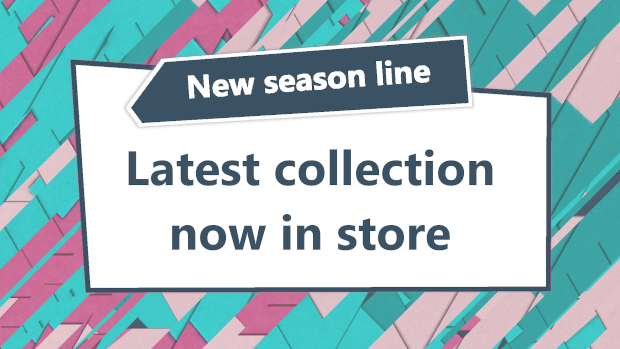
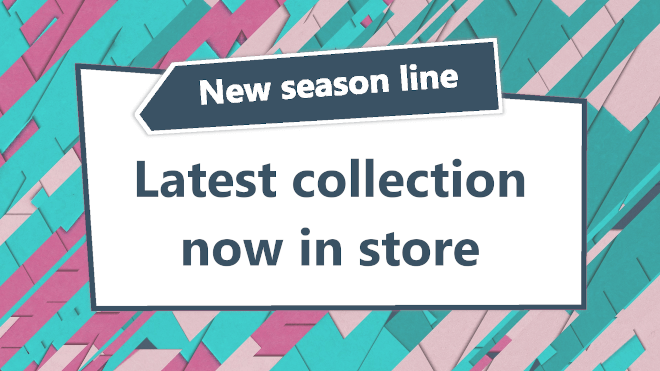
videowall img optimization

diff --git a/led-video-walls.html b/led-video-walls.html
@@ -96,7 +96,7 @@
             <p>Deliver rich, crystal clear content with true stopping power</p>
             <div class="vid-banner-container">
                     <div class="vid-banner">
-                        <img src="images/videowall-hero.png" alt="LED video wall showing juice bar menu">
+                        <img src="images/videowall-hero-optimized.png" alt="LED video wall showing juice bar menu">
                     </div>
                 </div>
             <hr>
@@ -163,7 +163,7 @@
     <div id="topSection">
     <div class="container signage-explainer">
         <div class="vid-top">
-            <img src="images/videowall-hero.png" alt="Juice bar menu displayed on LED video wall">
+            <img src="images/videowall-hero-optimized.png" alt="Juice bar menu displayed on LED video wall">
         </div>
         <div id="vid_img" class="vid_benefits">
             <h2>Take it to the next level</h2>

diff --git a/styles/style.css b/styles/style.css
@@ -798,7 +798,7 @@ background-image: url("https://www.transparenttextures.com/patterns/concrete-wal
     /* height: 320px; */
     background-color: #fafafa;
     border-top: 1px solid #d6d6d6;
-    background-image: url("../images/concrete-wall.png"); 
+    background-image: url("../images/concrete-wall-optimized.png"); 
     padding: 30px 0 40px 0;
 }
 
